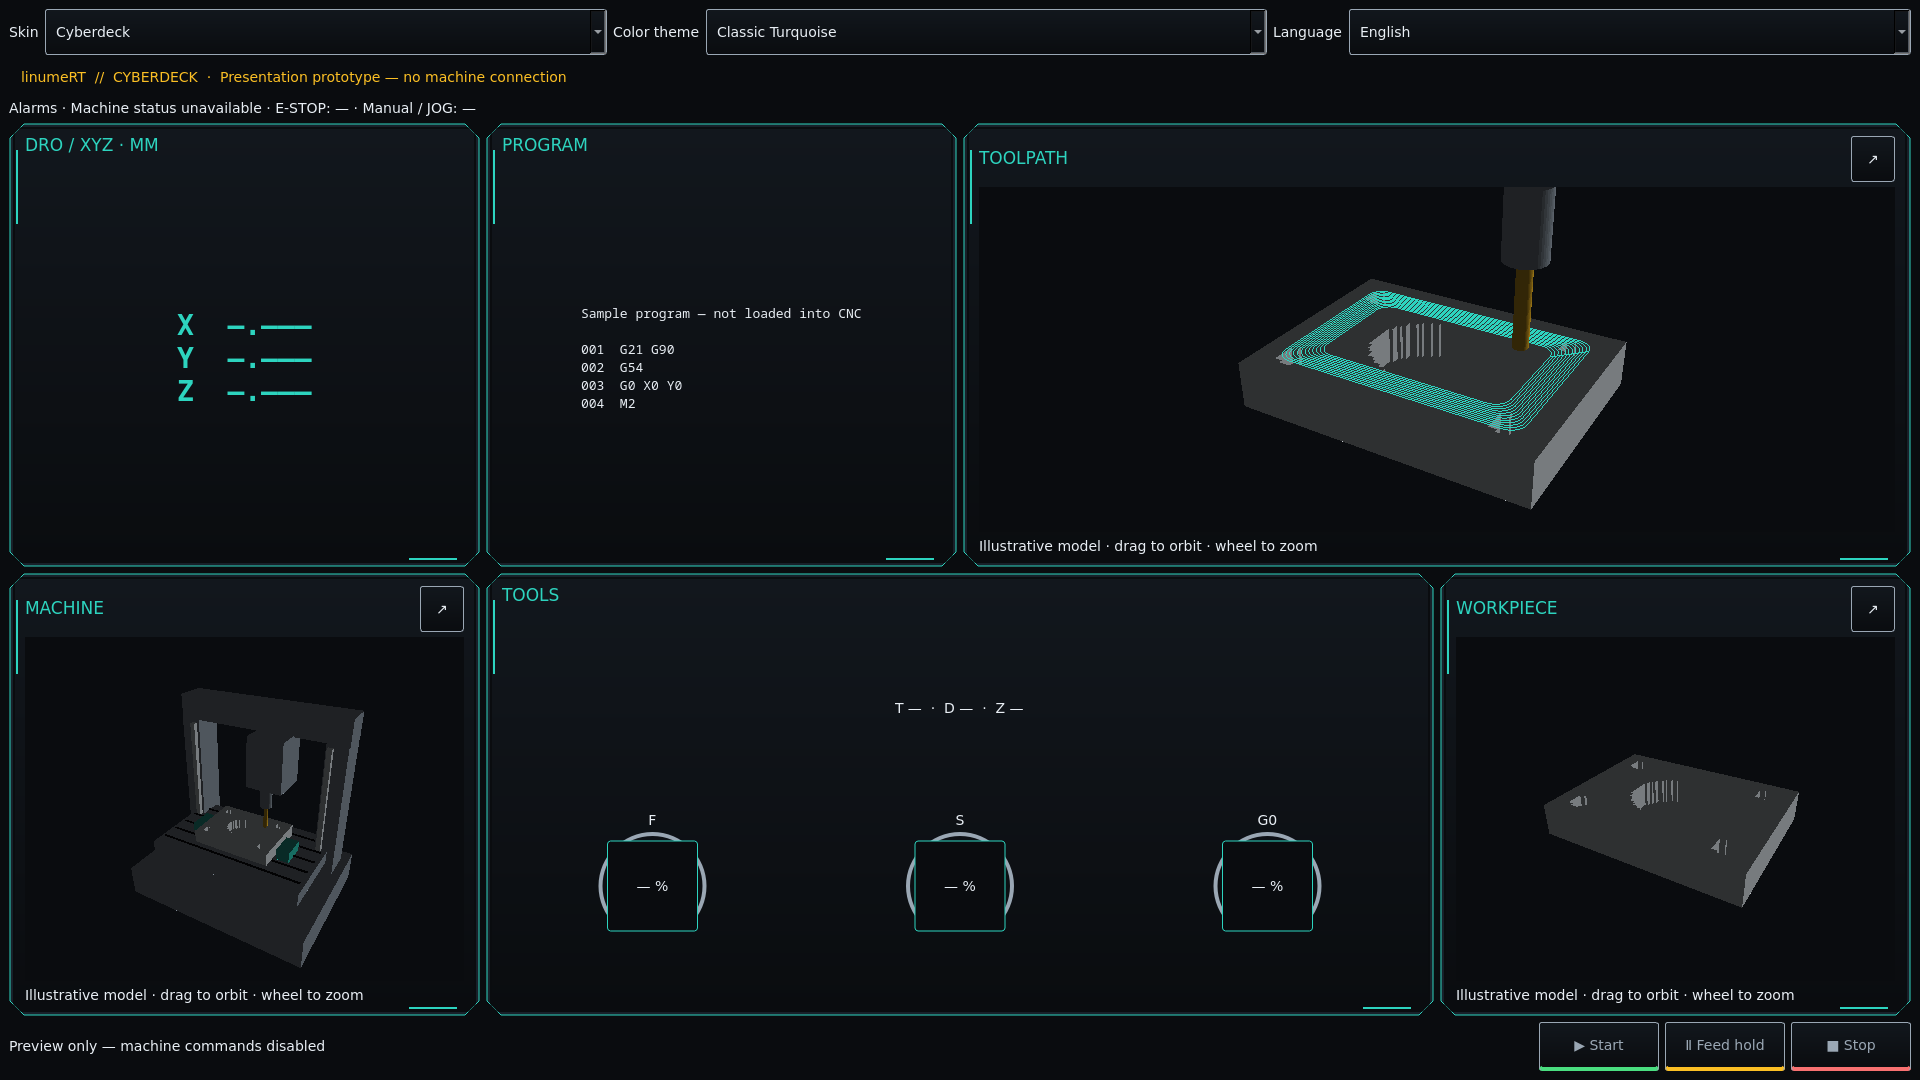
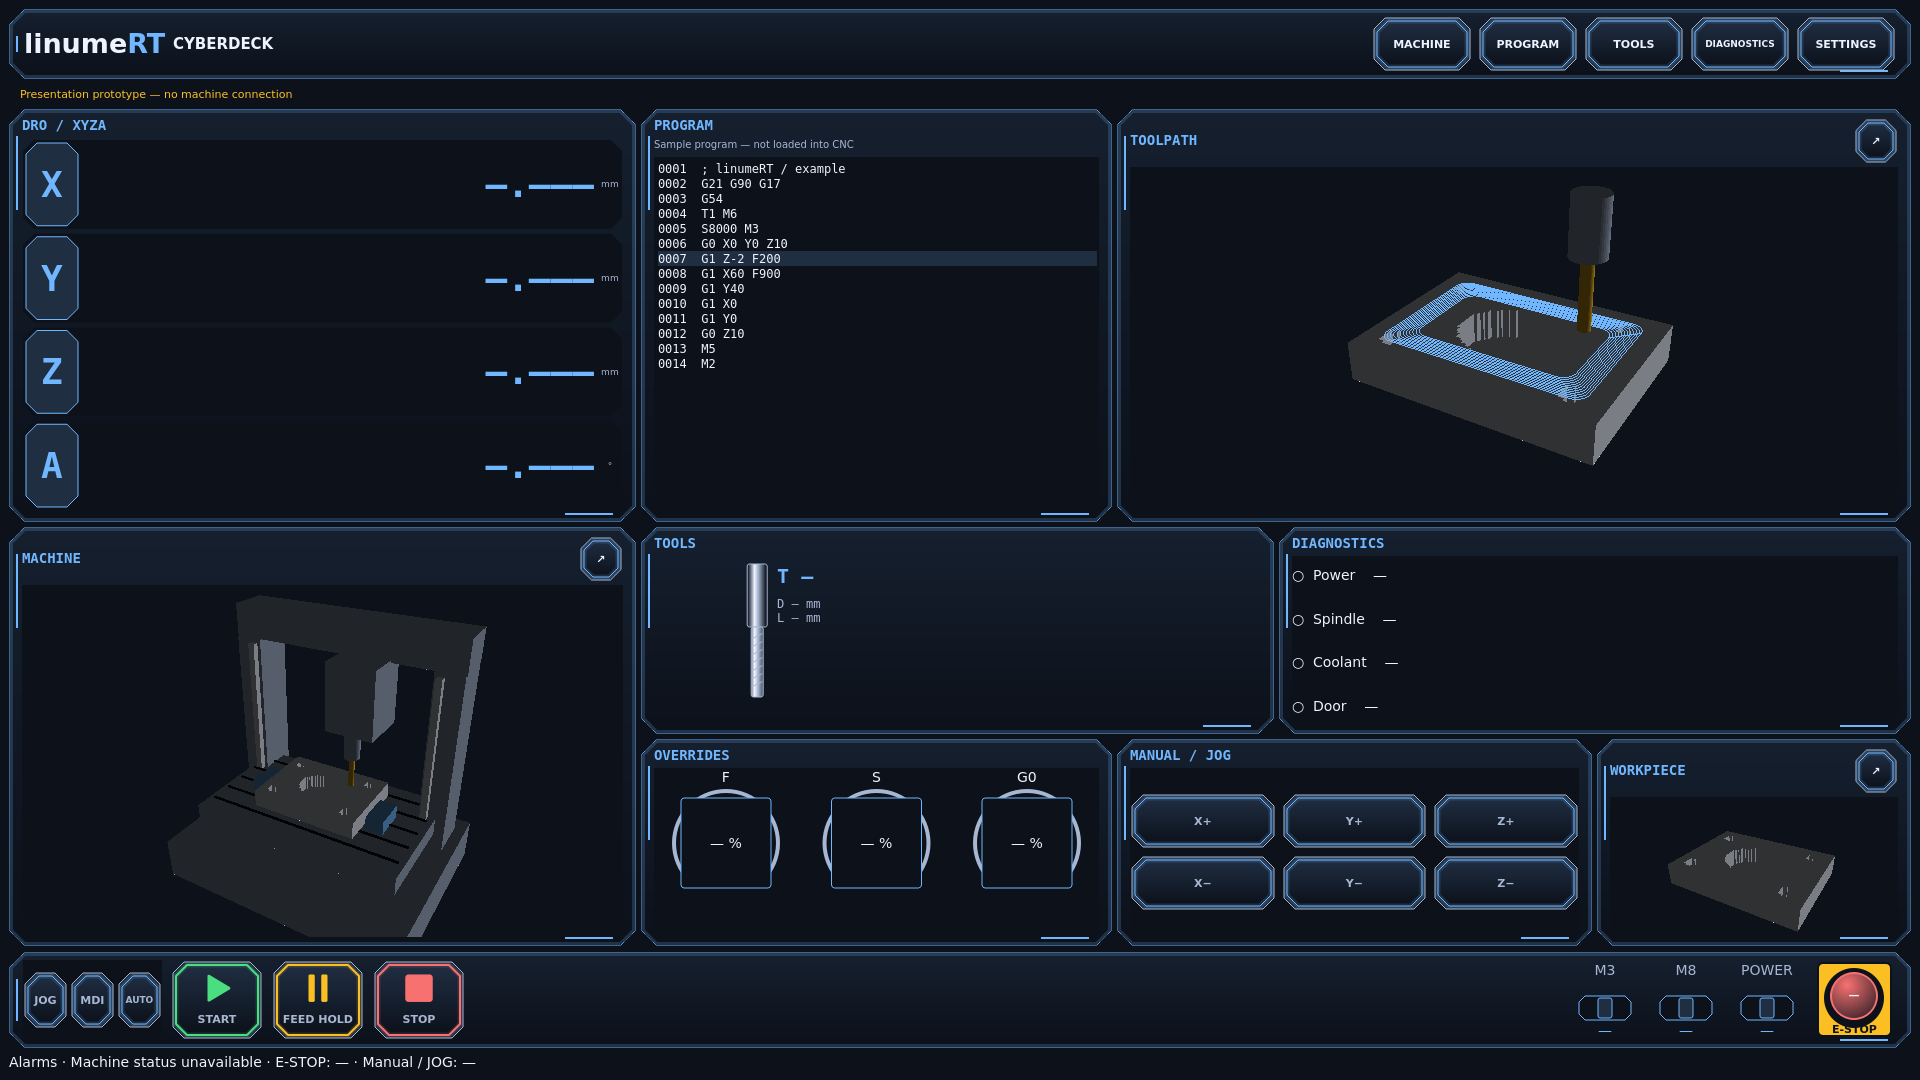
docs(skins): publish the four distinct screens and launch commands
Model-Author: Codex

Changed region(s): [[0.0, 0.0, 1.0, 1.0], [0.0938, 0.3056, 0.1562, 0.3667], [0.4375, 0.7333, 0.4688, 0.7639]]

diff --git a/docs/raporty/hmi_sym/README.md b/docs/raporty/hmi_sym/README.md
@@ -3,14 +3,14 @@
 Model-Author: Codex · 2026-10-23. Kod ekranu: main `8483b81` (PR #89).
 Obrazy są zrzutami uruchomionych aplikacji, bez montażu grafik koncepcyjnych.
 
-## Cztery skórki — osobny podgląd offline
+## Cztery osobne ekrany skórek — offline
 
-Świeże zrzuty 1920×1080, English, Classic Turquoise; każda skórka obsługuje także
-Graphite Gray, Reactor Green i Ion Blue oraz język polski. Własne sceny OpenGL
-pokazują poglądową maszynę bramową, detal z kieszenią i otworami oraz ścieżkę.
-Odczyty bez danych i nieaktywne Start/Hold/Stop: ten launcher nie łączy się z CNC.
-Pełna zgodność z [wzorcami właściciela](../../design/referencje-skin/README.md)
-i ukończone skórki operatora pozostają dalszym zakresem.
+Kod ekranów: `ea2fc39`, 2026-10-23. Osobne moduły i klasy: Classic Digital,
+Industrial Pro, Cyberdeck, Organic Vector. Każdy ma własną kompozycję paneli,
+konsolę i geometrię kontrolek. Wspólne są komponenty odczytu, palety i renderer.
+Zrzuty 1920×1080 / English, wykonane bez retuszu przez `tools/dev/skin-check.py`.
+Classic/Organic: Classic Turquoise; Industrial: Reactor Green; Cyberdeck: Ion Blue.
+Skórka, paleta i język pozostają niezależnymi ustawieniami.
 
 | Classic Digital | Industrial Pro |
 |:--|:--|
@@ -18,15 +18,35 @@ i ukończone skórki operatora pozostają dalszym zakresem.
 | Cyberdeck | Organic Vector |
 | ![Cyberdeck](skin_cyberdeck.png) | ![Organic Vector](skin_organic-vector.png) |
 
-Odtworzenie (PyQt5, pyqtgraph, PyOpenGL; X11/Xwayland):
+Uruchamiaj wybrany ekran osobno (PyQt5, pyqtgraph, PyOpenGL):
+
+```sh
+python3 tools/dev/skin-preview.py --skin classic-digital
+python3 tools/dev/skin-preview.py --skin industrial-pro --theme reactor-green
+python3 tools/dev/skin-preview.py --skin cyberdeck --theme ion-blue
+python3 tools/dev/skin-preview.py --skin organic-vector
+```
+
+Bez `--skin` launcher pokazuje także selektory do porównań; w osobnym ekranie
+wybory są dostępne w **Ustawienia**. Nawigacja powiększa panele programu, maszyny
+lub narzędzi. Diagnostyka pokazuje dane lokalnego renderera lub panel odczytu.
+Przyciski cyklu/JOG i przełączniki nie wysyłają poleceń CNC; dane są nieznane.
+Grzyb jest **nieinteraktywnym wskaźnikiem nieznanego stanu E-STOP**. To osobny
+host offline, nie zastępuje działającego HMI ani jego łańcucha bezpieczeństwa.
+Modele maszyny i materiału nadal są poglądowe.
+
+Odtworzenie galerii i odbioru na X11/Xwayland:
 
 ```sh
 python3 tools/dev/skin-check.py --output build/skin-docs
 ```
 
-Do galerii skopiowano pliki `*-1920.png`. Odbiór 64 wariantów przy obu rozmiarach
-przeszedł na Radeon/Mesa i Debian/llvmpipe. Pełne CI PR #89: 1019 pytest,
-166 subtestów oraz 109 prób LinuxCNC PASS; autokontrola autora.
+Pliki `*-1920-standalone.png` to powyższa galeria. Odbiór obejmuje **128 wariantów**:
+4 skórki × 4 palety × 2 języki × 2 rozmiary × browser/standalone. Sprawdza obrazy
+GL, 24-bitową głębię, rozmiary, powiększanie i globalne kontrolki. Wzorce:
+[oryginalne grafiki właściciela](../../design/referencje-skin/README.md).
+Pełna zgodność wszystkich szczegółów grafiki, modele zamiast schematu oraz
+integracja stanu i poleceń QtVCP pozostają dalszym etapem.
 
 ## Symulacja obróbki — aktualny ekran operatora
 

diff --git a/docs/NASTEPNA_SESJA.md b/docs/NASTEPNA_SESJA.md
@@ -1,6 +1,6 @@
 # Stan projektu i przekazanie
 
-Tura: Codex · 2026-10-23 · stan: oddana; podgląd #89 scalony, aktualizacja zrzutów w PR #90.
+Tura: Codex · 2026-10-23 · stan: oddana; osobne ekrany offline, odbiór/scalenie PR #91.
 
 ## Wynik końcowy — SKIN-01
 
@@ -331,15 +331,17 @@ Przy wykonywaniu zdjęć wykryto błąd zagnieżdżonego komentarza M4 w demo.
 leksera dla obu programów. Końcowe kontrole i scalenie raportowane w PR #90.
 Dalszy zakres skórek: szczegółowe kontrolki według makiet, pełne strony i adapter QtVCP.
 
-## Osobne ekrany według wizji — bieżący krok, 2026-10-23
-Model-Author: Codex. Właściciel ponownie zlecił wyraźnie odrębne ekrany,
-układy i kontrolki maksymalnie odpowiadające czterem wzorcom graficznym.
+## Osobne ekrany według wizji — PR #91, 2026-10-23
+Model-Author: Codex. Polecenie właściciela: wyraźnie odrębne ekrany, układy
+ i przyciski maksymalnie zgodne z czterema obrazami pierwotnych wizji.
 Osobny checkout /tmp/linumert-distinct-skins, gałąź codex/distinct-skin-screens.
-Pierwszy krok: fizyczne obudowy kontrolek cyklu, testy 64 układów PASS.
-Następnie: cztery osobne klasy ekranów, instrumenty i konsole dla każdej rodziny.
-Etap ekranów: osobne klasy Classic/Industrial/Cyberdeck/Organic, konsole, DRO,
-program, F/S, lokalna nawigacja i ustawienia; `--skin` uruchamia samodzielny ekran.
-Metalowe, ostrokątne i płynne obudowy oraz selektory i kontrolki rodzin.
-5 testów Qt PASS; 128 wariantów GL Radeon PASS (browser + standalone).
-Wcześniejszy błąd 815 px Industrial przy 1280×800 usunięty; 44 px zachowane.
-Następne: końcowy Debian, nowe zrzuty, dokumentacja i odbiór CI PR #91.
+Kod ekranów ea2fc39: osobne klasy/moduły Classic/Industrial/Cyberdeck/Organic,
+ własne konsole, DRO, F/S, program, ramki i typografia. Native przyciski, selektor
+ obrotowy, przełączniki, wskaźniki, ostrokątne i płynne metalowe obudowy.
+`--skin <id>` uruchamia samodzielny ekran; Ustawienia zmieniają lokalny wygląd.
+Nawigacja i powiększanie działają; kontrolki CNC nieaktywne, E-STOP nieinteraktywny.
+Radeon/Mesa i Debian/llvmpipe: 128 wariantów PASS; Debian 25 testów + 87 subtestów PASS.
+Zrzuty w docs/raporty/hmi_sym i README odświeżone, opisane jako offline.
+Błąd wysokości Industrial 815 px przy 1280×800 usunięty; cele 44 px zachowane.
+Końcowe kontrole i scalenie raportowane w PR #91. Dalszy zakres: szczegółowe modele,
+ dopracowanie pozostałych detali wizji i bezpieczna integracja stanu/poleceń QtVCP.

diff --git a/README.md b/README.md
@@ -91,7 +91,7 @@ A futuristic blend of flowing rounded frames, pointed elements, circular indicat
 
 </div>
 
-> **Current status (2026-10-23):** four offline Qt layout prototypes now support four palettes, English/Polski and three interactive OpenGL panels. This is a separate preview, without CNC status or commands. Complete operator skins and QtVCP integration remain in development. [Original concept artwork](docs/design/referencje-skin/README.md) · [Current screenshots and capture report](docs/raporty/hmi_sym/README.md).
+> **Current status (2026-10-23):** four separately composed Qt screens now have their own panel layouts, physical controls, instruments and navigation, with four palettes, English/Polski and three interactive OpenGL panels. This is a separate preview, without CNC status or commands. Complete operator skins and QtVCP integration remain in development. [Original concept artwork](docs/design/referencje-skin/README.md) · [Current screenshots and capture report](docs/raporty/hmi_sym/README.md).
 
 ### New skin previews — actual Qt screenshots
 
@@ -101,12 +101,16 @@ A futuristic blend of flowing rounded frames, pointed elements, circular indicat
 | Cyberdeck | Organic Vector |
 | ![Cyberdeck offline preview](docs/raporty/hmi_sym/skin_cyberdeck.png) | ![Organic Vector offline preview](docs/raporty/hmi_sym/skin_organic-vector.png) |
 
-Captured at **1920×1080**, Classic Turquoise, English. All four palettes are available in each layout. The machine and part are illustrative models; unknown readouts and disabled cycle controls are intentional in the offline preview.
+Captured as separate screens at **1920×1080**, English: Classic/Organic in Classic Turquoise, Industrial in Reactor Green, Cyberdeck in Ion Blue. All four palettes remain available independently in every screen. The machine and part are illustrative models; unknown readouts and disabled cycle controls are intentional in the offline preview.
 
 ```sh
+python3 tools/dev/skin-preview.py --skin classic-digital
+python3 tools/dev/skin-preview.py --skin industrial-pro --theme reactor-green
+python3 tools/dev/skin-preview.py --skin cyberdeck --theme ion-blue
+python3 tools/dev/skin-preview.py --skin organic-vector
+# Browse all screens, or run without OpenGL dependencies:
 python3 tools/dev/skin-preview.py
-# Layouts without OpenGL dependencies:
-python3 tools/dev/skin-preview.py --layout-only
+python3 tools/dev/skin-preview.py --skin organic-vector --layout-only
 ```
 
 ---

diff --git a/docs/design/SKIN_AUDIT.md b/docs/design/SKIN_AUDIT.md
@@ -113,3 +113,28 @@ To ukończony krok podglądu, **nie ukończone SKIN-02…06 ani wierna realizacj
 całych makiet**. Otwarte: szczegółowe kontrolki/ikony/typografia, modele maszyny
 zamiast schematu, pełne strony oraz bezpieczny adapter stanu/poleceń QtVCP.
 Aktualny ekran operatora pozostaje osobną aplikacją. NIEZWERYFIKOWANE NA SPRZĘCIE.
+
+## Osobne ekrany i kształty kontrolek — PR #91, 2026-10-23
+
+Model-Author: Codex. Właściciel zlecił osobne ekrany z układami i przyciskami
+maksymalnie odpowiadającymi pierwotnym obrazom. Cztery niezależne klasy w modułach
+linumert_skin_classic/industrial/cyberdeck/organic.py mają własne układy i konsole.
+Wspólna baza dostarcza komponenty, nie jeden układ przemalowywany przez QSS.
+
+Classic: pięć odczytów, duża ścieżka, metalowe prostokątne klawisze i przełączniki.
+Industrial: duża maszyna po lewej, środkowe DRO, prawa ścieżka/program, obrotowy
+selektor i osobna konsola. Cyberdeck: ścięte obrysy, moduły asymetryczne,
+podświetlane przyciski i dolny pokład JOG/wskaźników. Organic: asymetryczne krzywe
+obudów, okrągłe klawisze, obłe wyspy, status na dole. Typografia należy do rodziny.
+
+`--skin <id>` uruchamia osobny ekran bez stałego paska selektorów. Ustawienia
+zmieniają lokalną prezentację po Zastosuj; Anuluj zachowuje ekran. Nagłówki mają
+działającą lokalną nawigację i diagnostykę renderera. Kontrolki CNC są nieaktywne,
+grzyby E-STOP są nieinteraktywne i pokazują stan nieznany; bez ACTION/STATUS/HAL.
+Nie jest to jeszcze produkcyjny host CNC ani odbiór wszystkich szczegółów wizji.
+
+Testy sprawdzają cztery różne klasy/moduły, nawigację, brak emisji kliknięć
+nieaktywnych kontrolek, anulowanie/atomowe ustawienia oraz usuwanie starych paneli.
+Odbiór GL rozszerzony do 128 wariantów browser/standalone; wykrył przekroczenie
+800 px o 15 px w Industrial, usunięte bez zmniejszania celów 44 px.
+Aktualne obrazy: `docs/raporty/hmi_sym/README.md`, kod ekranów ea2fc39.

diff --git a/docs/DZIENNIK.md b/docs/DZIENNIK.md
@@ -854,3 +854,13 @@ Pełne CI ujawniło ostrzeżenie rs274 przy pierwszym zapisie nieistniejących p
 - Poprawiono komentarz i kontrolę finału (T11 + idle), regresje leksera obu programów.
 - Świeże obrazy z rzeczywistego LinuxCNC i wynik JSON; K-302 wyłącznie diagnostycznie.
 - Autokontrola, bez niezależnego przeglądu; końcowy stan kontroli/scalenia w PR #90.
+
+## 088 — osobne ekrany skórek według wizji · 2026-10-23 · Codex
+- Model-Author: Codex. PR #91, osobny checkout; lokalne pliki operatora zachowane.
+- Cztery osobne klasy/moduły, układy paneli, konsole i typografia według obrazów właściciela.
+- Fizyczne klawisze, selektor obrotowy, przełączniki, ramki ścięte i płynne metalowe obudowy.
+- Samodzielny launcher --skin, lokalna nawigacja i atomowe ustawienia z anulowaniem.
+- Komendy CNC nieaktywne; grzyb to nieinteraktywny wskaźnik stanu nieznanego.
+- Radeon i Debian/Mesa: 128 wariantów PASS; Debian 25 testów + 87 subtestów PASS.
+- Nowa galeria w README/raporcie; pełna integracja QtVCP i szczegółowe modele nadal otwarte.
+- Autokontrola, bez niezależnego przeglądu; wynik końcowego CI i scalenia w PR #91.

diff --git a/prompts/DONE.md b/prompts/DONE.md
@@ -44,3 +44,4 @@ Wykonane: 33 z 84.
 085 | 2026-10-23 | SKIN-01: reprodukcja zasłaniania i windingu brył, podgląd OpenGL na Radeon/Mesa i Debian/LinuxCNC; PR #87; Codex
 086 | 2026-10-23 | Podgląd skórek według czterech makiet właściciela, sceny 3D i powiększanie, odbiór GL 64 wariantów; nie kończy SKIN-02…06; PR #89; Codex
 087 | 2026-10-23 | Nowe zrzuty skórek i rzeczywistej symulacji w README/raporcie hmi_sym, poprawka komentarza demo i potwierdzenie T11; PR #90; Codex
+088 | 2026-10-23 | Cztery osobne ekrany offline, układy i kontrolki według wizji, launcher --skin, 128 wariantów GL, nowa galeria; nie kończy integracji CNC; PR #91; Codex

diff --git a/docs/PROVENANCE.md b/docs/PROVENANCE.md
@@ -420,3 +420,8 @@ Własne osobne moduły ekranów: `screens/linumert/linumert_skin_classic.py`,
 oraz rejestr `linumert_skin_screens.py`. Codex, 2026-10-23, GPL-2.0-or-later.
 Osobne kompozycje i konsole według czterech wzorców właściciela; wspólne tylko
 komponenty odczytu i renderer. Bez zależności LinuxCNC/HAL.
+
+Aktualizacja czterech `docs/raporty/hmi_sym/skin_*.png`, Codex, 2026-10-23:
+rzeczywiste osobne ekrany Qt z kodu ea2fc39, 1920×1080, bez retuszu. Industrial
+w Reactor Green, Cyberdeck w Ion Blue, pozostałe w Classic Turquoise.
+Własne kształty rysowane przez QPainter i własne sceny 3D; GPL-2.0-or-later.
